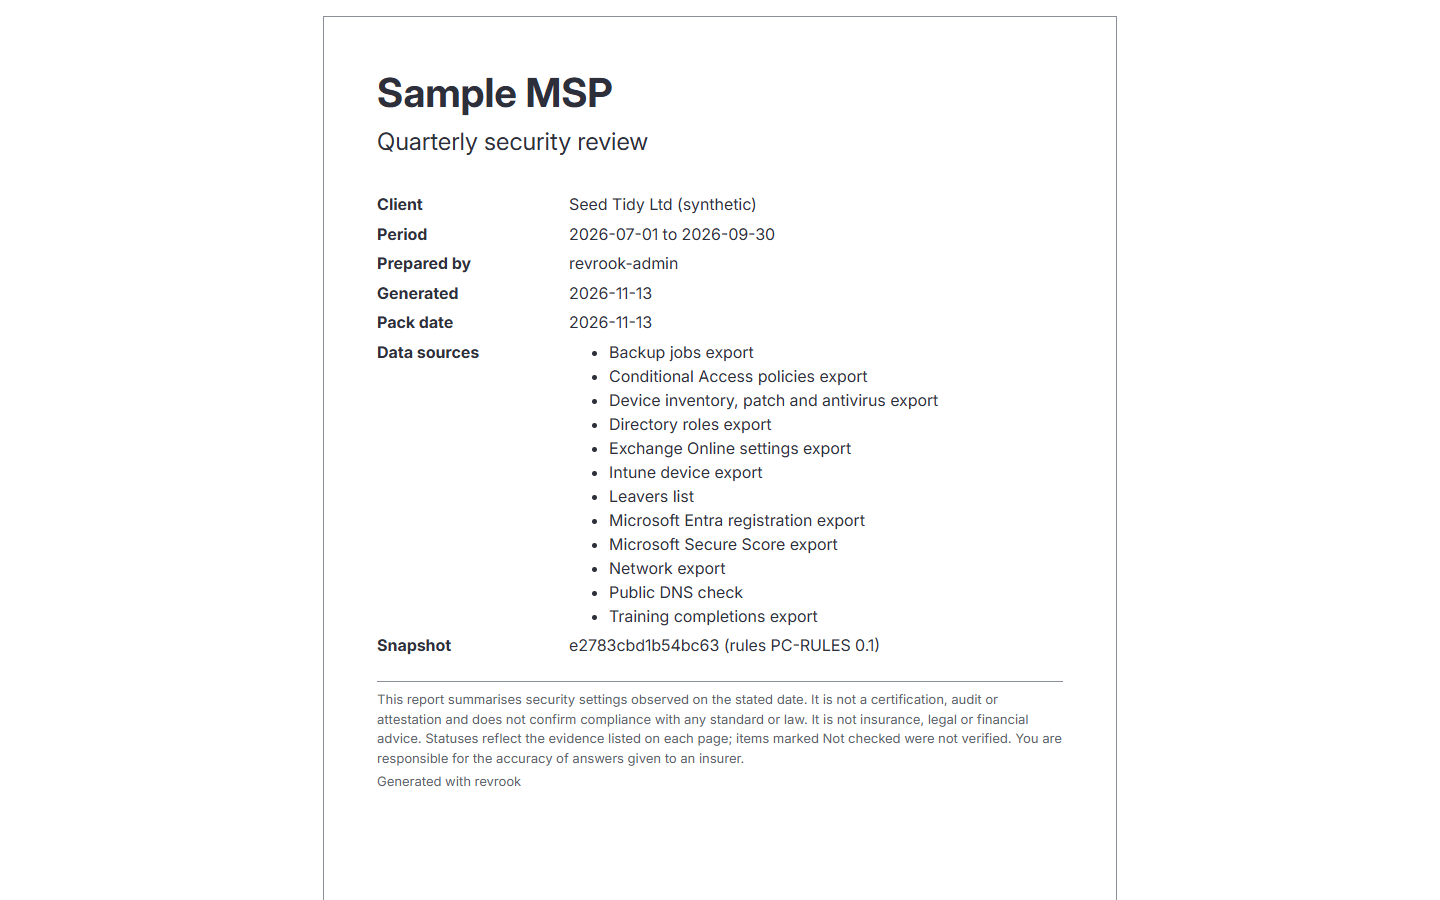
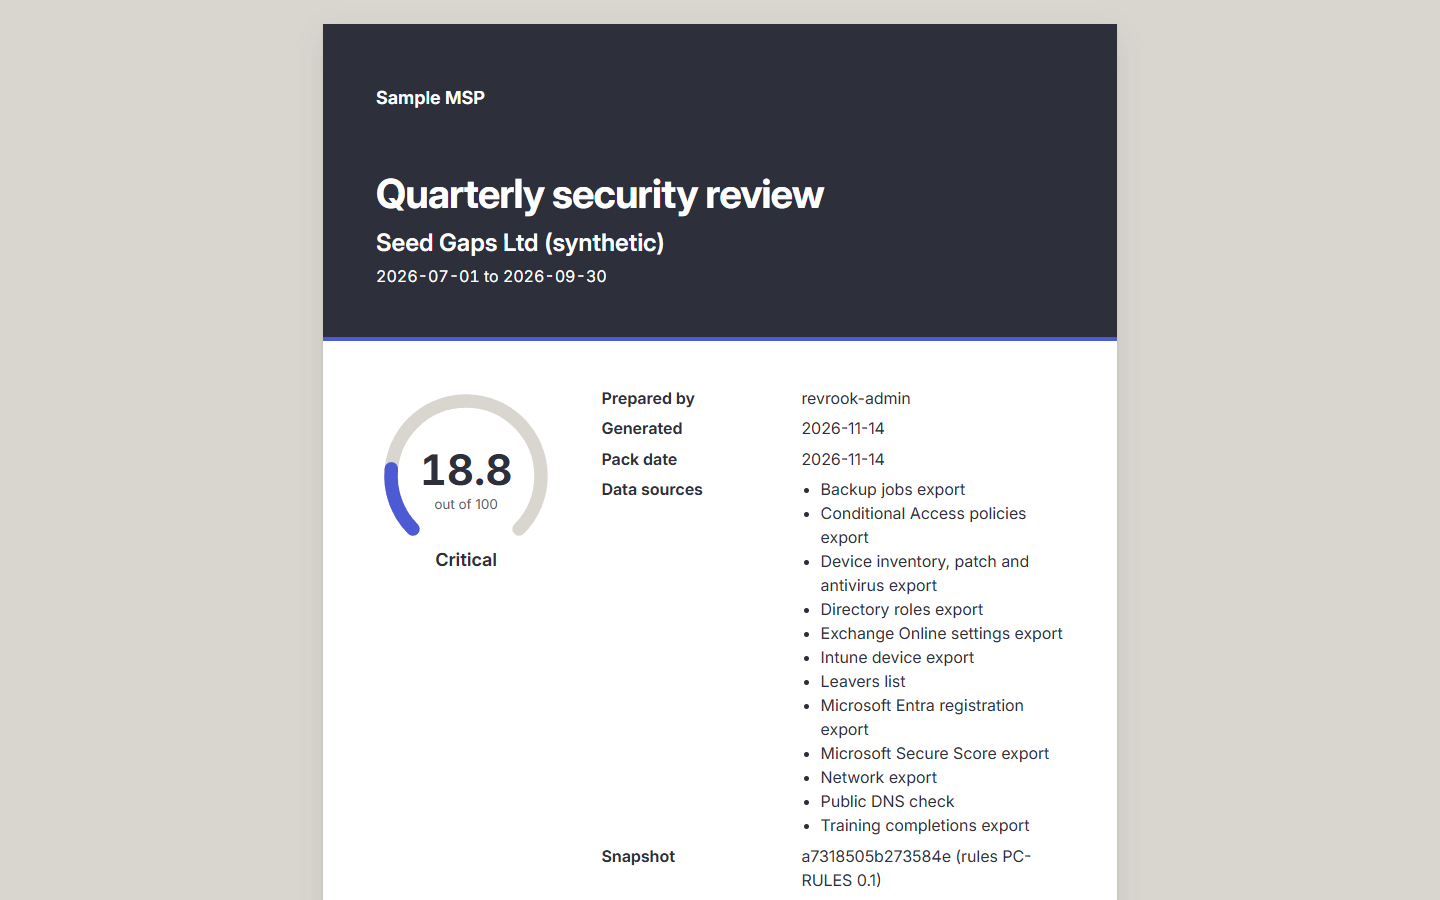
docs: the pictures of Settings and of the rendered report, captured again on Development
The reports got the look of a document and Settings a block for the logo of
the business (#137 to #139), so five guide pictures showed an earlier look.
They were captured again on the Development deployment of 56e697d: Settings,
and the four pictures of the rendered review, now of Seed Gaps Ltd (synthetic),
a client with open findings, so that What was checked and Usual next step are
seen. The other 57 pictures are those of 2026-11-13. The manifest and the
picture README say which five and on what; guide 6 describes the new report.

diff --git a/docs/guides/06-reports-and-exports.md b/docs/guides/06-reports-and-exports.md
@@ -44,8 +44,8 @@ report.
   exceptions, the data sources and the preparer. **Before you export** lists what
   stops an export, each line saying what is missing; the usual first one is the
   business name.
-- The paper sheet, white in both themes and set in a charcoal frame, shows the cover and the summary as the client receives them: the period,
-  the pack date, the summary sentence and the counts by status.
+- The paper sheet, white in both themes and set in a charcoal frame, is a short reading of the report: the period,
+  the pack date, the summary sentence and the counts by status. The file itself, with its cover, is what **Preview** opens.
 - **The reports**: for each of the two, **Preview** opens the file as it would be sent,
   and **Export the quarterly security review** or **Export the cyber insurance
   evidence pack** keeps an unchangeable copy and its SHA-256 and opens the export
@@ -60,16 +60,26 @@ report.
 ## The rendered report
 
 **Preview** of the quarterly security review opens the file itself, as the client
-receives it: one HTML page laid out as paper. The cover carries the name of your
-business (from Settings), the client, the period, who prepared it, the date it was
-generated, the pack date, the data sources and the id of the snapshot it was made
-from, followed by the disclaimer that every report prints.
+receives it: one HTML file laid out as sheets of paper. The cover opens with a dark
+head: your logo when one is set in Settings, the name of your business, the report,
+the client and the period. Under it stand the score as a dial with its band, who
+prepared it (the name you chose on the Account page), the date it was generated, the
+pack date, the data sources and the id of the snapshot it was made from, followed by
+the disclaimer that every report prints.
 
 ![The cover of the rendered quarterly security review at 1440 px](../images/report-preview-file-1440.png)
 
-The whole file, from the cover through the summary, the findings, the plan for next
-quarter, the evidence, the exceptions register and the appendix of each domain to the
-important notice, is one tall picture in
+After the cover come the summary (score, evidence coverage and band in one row, and
+the controls by status as one bar above their table), the coverage by domain, and the
+**top findings**. A finding names the control and its status, the evidence it was read
+from and its date, **what was checked** (what the check found when the report was
+made) and, when you wrote no recommendation for it, the **usual next step** of that
+control; what you write under **What we recommend** takes its place. **What could not
+be checked** lists the kinds of evidence the unchecked controls wait for. The roadmap
+and the plan for next quarter are printed only when you wrote them.
+
+The whole file, from the cover to the appendix of each domain and the important
+notice, is one tall picture in
 [report-preview-file-full-1440.png](../images/report-preview-file-full-1440.png); its
 sections are described in [reports](../reports.md). The cyber insurance evidence pack
 opens the same way from its own **Preview** and is not pictured here.
@@ -77,11 +87,13 @@ opens the same way from its own **Preview** and is not pictured here.
 ## A report on a phone
 
 The file fits a narrow screen as well as paper. Below about 640 px it has less padding,
-the facts of the cover in one column and a smaller title, and the page never scrolls
+the dial above the facts of the cover, a smaller title, and the page never scrolls
 sideways. A table that is still wider than the screen scrolls inside its own frame:
 swipe it, or give it focus with Tab and use the arrow keys. Its caption stays whole at
 the left edge while the columns move, and a date in a table is never broken across
-lines. Printing keeps the A4 layout.
+lines. Printed, or saved as a PDF from the browser, the report keeps the A4 layout:
+the cover is a sheet of its own, short sections follow one another, every sheet
+carries its number and the colours print without the background option.
 
 ![The cover of the quarterly security review on a phone at 390 px](../images/report-preview-file-390.png)
 

diff --git a/CHANGELOG.md b/CHANGELOG.md
@@ -42,6 +42,7 @@ No version has been released: there is no stable tag, no stable GitHub release a
 - A new **Account** page: display name, a picture (PNG, JPEG or WebP up to 512 KB, recognised by its bytes), the password (the current one first) and the theme. Migration 0007 adds `display_name`, `avatar`, `avatar_type` and `avatar_version` to `app_user`; every change is written to the audit trail without its value.
 - The 3D scenes are modelled anew: Home shows each client as an office on a street (floors for the score, width for the company size from its Entra users or devices, a roof light for the band, a building in scaffolding for too little evidence, an empty lot for none, a red window per control that needs work), with a road, pavements, trees and lamps and soft shadows. The Evidence Explorer draws each export as an office block, its beams faint until a block or a tile is chosen; the domain keep of a client draws not checked as glass. No scene uses wireframes any more.
 - Shorter text: one line under each page title; Import evidence lists the supported exports as one compact card with the Microsoft 365 export script as a button; Home's Needs attention and Score over time are matching cards, and four client cards fit in a row.
+- The picture of Settings and the four pictures of the rendered report were captured again on 2026-11-14 on the Development site (commit `56e697d`), so they show the logo block and the report as a document; [guide 6](docs/guides/06-reports-and-exports.md) describes the new report ([docs/images/README.md](docs/images/README.md)).
 - The 62 guide pictures were captured again on 2026-11-13 on the Development site (commit `0f705ca`), with the 3D view shown, so they show the revamped interface and the product as it is deployed ([docs/images/README.md](docs/images/README.md)).
 - The 26 guide pictures of Home, the clients list and the checklist were captured again on 2026-11-12 from Development (commit `38da74b`), so they show the shorter pages ([docs/images/README.md](docs/images/README.md)).
 - Shorter pages. Home puts **Needs attention** (now the five most urgent, with a link to the rest) and the score over time right under the stat cards, folds the mean score and the colour key into **How the score works**, and its notes say less. The clients list shows the bands as chips beside the filters instead of a chart card above the table. The checklist drops the Owner column until a topic owner is set, and its last column, **Also needs a look**, no longer repeats the status.

diff --git a/docs/images/README.md b/docs/images/README.md
@@ -84,6 +84,26 @@ A full-page capture is used only where the rail does not need to reach the foot 
 sign-in page, the narrow layouts, the rendered report). The manifest names the frame
 of each picture.
 
+### Five pictures of 2026-11-14
+
+On 2026-11-14 at 04:16 UTC five pictures were captured again, on the Development
+deployment of `56e697d499efc101c1013079f32b0594c5fc97e4` (the merge of pull request #139, image
+`sha256:a883ae686ad2ccdbc59b2d6455338ea103b1a8fdc4b9e9a5f03dca2a337d7671`, CI run
+43555212041): `settings-1440.png` and the four pictures of the rendered review
+(`report-preview-file-1440.png`, `report-preview-file-full-1440.png`,
+`report-preview-file-390.png`, `report-preview-file-390-table.png`). Pull requests
+#137 to #139 gave the reports the look of a document (a cover with a dark head and
+the score dial, a status bar, findings that say what was checked and the usual next
+step, a section for what could not be checked, a mark for each domain) and Settings
+a block for the logo of the business. The review pictured is now the one of Seed Gaps
+Ltd (synthetic), report 20, a client with open findings, so that the findings are
+seen; the pictures of the report builder, of Preview and export and of the export
+history still show Seed Tidy Ltd (synthetic). The other 57 pictures are those of
+2026-11-13, byte for byte. For these five, two reports of Seed Gaps were made on
+Development that day (19 and 20), a made-up test logo was uploaded on Settings and
+removed again while pull request #138 was checked (no logo is saved there, as the
+picture shows), and the theme of the test account was switched to Light and back.
+
 ## Kept out of the pictures
 
 **Recent changes** on Home and **Users and mappings** in Settings stay out of the
@@ -134,7 +154,7 @@ was switched for the dark and the light pictures and put back to dark, as it was
   beyond ([design system](../design-system.md)).
 - The Evidence Explorer turns by itself until a person touches it, so each of its
   pictures shows the scene at the angle of that moment.
-- `report-preview-file-full-1440.png` is the whole rendered review, 15,928 px tall; it
+- `report-preview-file-full-1440.png` is the whole rendered review, 14,461 px tall; it
   was judged by its structure and the text of the page.
 
 ## Known limits of this set

diff --git a/docs/guides/README.md b/docs/guides/README.md
@@ -4,7 +4,9 @@ Step-by-step tutorials for every flow of the revrook Community Edition web inter
 in the order a new installation meets them. Every picture is a live capture, taken on
 2026-11-13, of the Development site running commit `0f705cace6f1d91c950693a2f1d67552904a2744`
 (the merge of pull request #135), with the 3D view shown and the synthetic test data of
-that installation (see the [capture manifest](../images/README.md)). Pictures at 1440 px are the desktop view; pictures at 768 px
+that installation (see the [capture manifest](../images/README.md)); the picture of
+Settings and the four pictures of the rendered report were taken again on 2026-11-14,
+on commit `56e697d4`. Pictures at 1440 px are the desktop view; pictures at 768 px
 and 390 px are labelled as tablet and phone views in their captions. The pictures
 are in [docs/images](../images/README.md) with a capture manifest (file, SHA-256, page,
 viewport, theme, capture time and the guide that uses each). What the output is, and is

diff --git a/docs/guides/07-settings-system-and-glossary.md b/docs/guides/07-settings-system-and-glossary.md
@@ -9,8 +9,8 @@ Open **Settings** in the Administration group.
 Under the name and the reminder address, **Your logo** takes a picture file of your
 business (PNG, JPEG or WebP, up to 200 KB). **Upload logo** saves it: the cover of
 every report then prints it above your business name, on a white plate, and the
-cover preview beside the form shows it. **Remove logo** takes it away again. The
-picture above was taken before the logo was added to the page.
+cover preview beside the form shows it. **Remove logo** takes it away again. No logo
+is saved on the installation pictured.
 
 - **Your business**: the name printed on every report and the address the evidence
   expiry reminders go to. These two are the only settings of the page; **Save** stores
